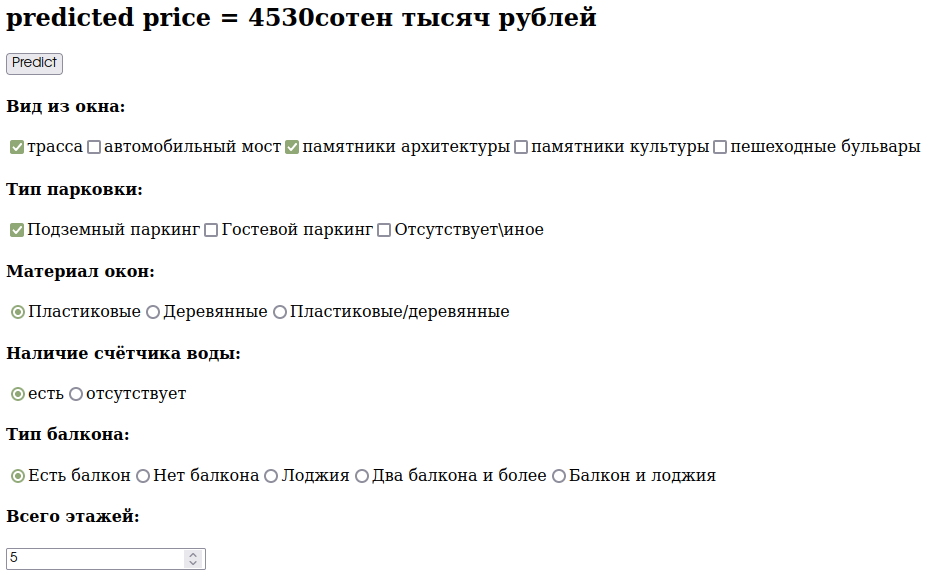
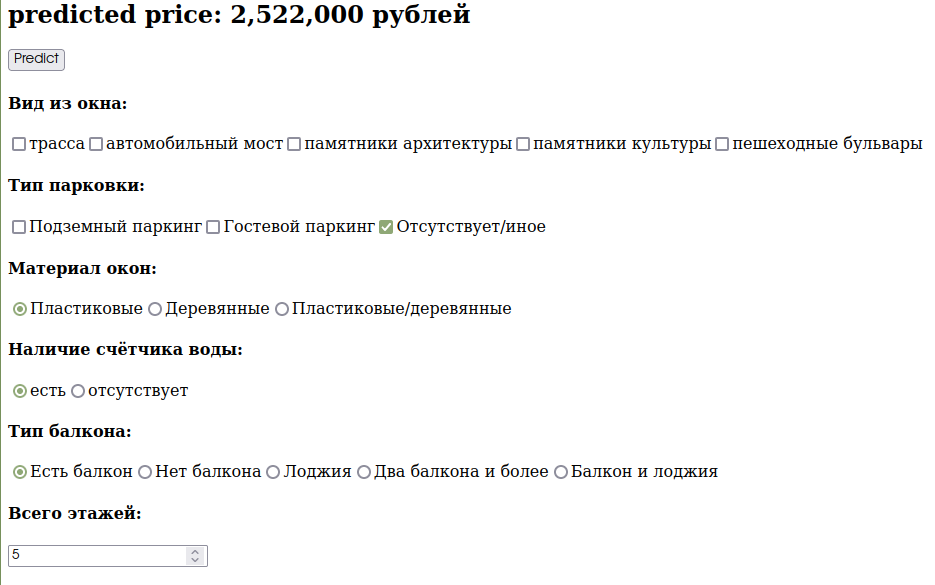
made some beauty in code for readability.

diff --git a/application.py b/application.py
@@ -23,10 +23,8 @@ def getPrediction(X, model):
     y_predicted = model.predict(oneSample)[0]
     return y_predicted
 
-# TODO do I need this?
 
-
-def getYearCategories(df):
+def splitYearCategoriesInDataFrame(df):
     '''
     get year categories splitting, based on df year values
     '''
@@ -37,11 +35,10 @@ def getYearCategories(df):
                        df['Год постройки'].max(), bin_split)
     year = pd.cut(df['Год постройки'], bins=bins)
     X_year_bins['Год постройки'] = year
-    return X_year_bins['Год постройки'].unique()
+    return X_year_bins
 
 
-def getModel():
-    PATH = './models/model.pkl'
+def getModel(PATH):
     with open(PATH, "rb") as f:
         model = pickle.load(f)
     return model
@@ -101,27 +98,31 @@ def initX(CURRENT_X_DATA, dfFromInit, yearCategories=None):
     return X
 
 
-dfPATH = 'data/learningData.csv'
-df = pd.read_csv(dfPATH, index_col='Код объекта')
+# Attention: usage df2 and yearCategories !!!
 
-yearCategories = getYearCategories(df)
 
-# transform year data
-bins = np.linspace(df['Год постройки'].min(), df['Год постройки'].max(), 5)
-year = pd.cut(df['Год постройки'], bins=bins)
-df2 = df.copy()
-df2['Год постройки'] = year
+def createExampleFromUserInfo(CURRENT_X_DATA):
+    X = initX(CURRENT_X_DATA, flatDF_withYearFix, yearCategories)
+    XDf = X.to_frame().T
+    transformed = ohe.transform(XDf[oheCols])
+    transformed = pd.DataFrame(transformed, index=XDf.index)
 
-yearCategories = df2['Год постройки'].unique()
+    XDfWithoutTransformedCols = XDf.drop(columns=oheCols)
 
-ohe = OneHotEncoder(sparse=False)
-oheCols = ['Материал окон', 'Счетчик воды', 'Балкон', 'Серия', 'Стены',
-           'Адрес', 'Год постройки', 'Двор']
-ohe.fit(df2[oheCols])
+    example = XDfWithoutTransformedCols.join(transformed)
+    return example
 
-model = getModel()
 
-app = Dash(__name__)
+def isNotAllFieldsFilled(*args):
+    for arg in args:
+        if (arg is None) or (arg is np.nan):
+            return True
+    return False
+
+
+def makeBeautyDigits(value):
+    assert type(value) is int, 'predicted value must be int!'
+    return "{:,}".format(value)
 
 
 def generateTable(dataframe, max_rows=10):
@@ -247,10 +248,27 @@ def renovationFeatDash():
         )
 
 
+dfPATH = 'data/learningData.csv'
+modelPATH = 'models/model.pkl'
+flatDF = pd.read_csv(dfPATH, index_col='Код объекта')
+flatDF_withYearFix = splitYearCategoriesInDataFrame(flatDF)
+
+yearCategories = flatDF_withYearFix['Год постройки'].unique()
+
+ohe = OneHotEncoder(sparse=False)
+oheCols = ['Материал окон', 'Счетчик воды', 'Балкон', 'Серия', 'Стены',
+           'Адрес', 'Год постройки', 'Двор']
+# 'train' ohe
+ohe.fit(flatDF_withYearFix[oheCols])
+
+model = getModel(modelPATH)
+
+app = Dash(__name__)
+
 app.layout = html.Div(children=[
     html.H1(children='Flat price prediction'),
     html.H3('first 10 rows from data'),
-    generateTable(df, max_rows=10),
+    generateTable(flatDF, max_rows=10),
     html.H2(id='prediction-output', children=['predicted price = ']),
     html.Button(id='predict-button-state', children='Predict'),
     html.H4('Вид из окна: '),
@@ -289,27 +307,6 @@ app.layout = html.Div(children=[
     ])
 
 
-def isNotAllFieldsFilled(*args):
-    for arg in args:
-        if arg is None or arg is np.nan:
-            return True
-    return False
-
-# Attention: usage df2 and yearCategories !!!
-
-
-def createExampleFromUserInfo(CURRENT_X_DATA):
-    X = initX(CURRENT_X_DATA, df2, yearCategories)
-    XDf = X.to_frame().T
-    transformed = ohe.transform(XDf[oheCols])
-    transformed = pd.DataFrame(transformed, index=XDf.index)
-
-    XDfWithoutTransformedCols = XDf.drop(columns=oheCols)
-
-    example = XDfWithoutTransformedCols.join(transformed)
-    return example
-
-
 # make prediction after button pressed
 @app.callback(
     Output(component_id='prediction-output', component_property='children'),
@@ -336,11 +333,11 @@ def createExampleFromUserInfo(CURRENT_X_DATA):
 def makePredict(n_clicks, sv, pk, wm, wc, blc, tf,
                 ser, wallm, yr, sq, ad,
                 ch, yd, rn, ren):
-    if isNotAllFieldsFilled(sv, pk, wm, wc, blc, tf,
+    if isNotAllFieldsFilled(wm, wc, blc, tf,
                             ser, wallm, yr, sq, ad,
                             ch, yd, rn, ren):
         return 'Fill all fields'
-    CURRENT_X_DATA = pd.Series()
+    CURRENT_X_DATA = pd.Series(dtype=object)
     CURRENT_X_DATA['streetView'] = sv
     CURRENT_X_DATA['parking'] = pk
     CURRENT_X_DATA['windowMaterial'] = wm
@@ -358,8 +355,9 @@ def makePredict(n_clicks, sv, pk, wm, wc, blc, tf,
     CURRENT_X_DATA['renovation'] = ren
 
     example = createExampleFromUserInfo(CURRENT_X_DATA)
-    predictedValue = getPrediction(example, model)
-    children = ['predicted price = ', predictedValue, ' сотен тысяч рублей']
+    predictedValue = round(getPrediction(example, model))
+    valueString = makeBeautyDigits(predictedValue)
+    children = 'predicted price: ' + valueString + ',000 рублей'
 
     return children
 
